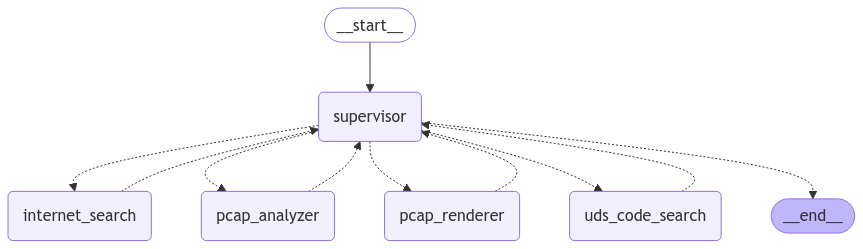
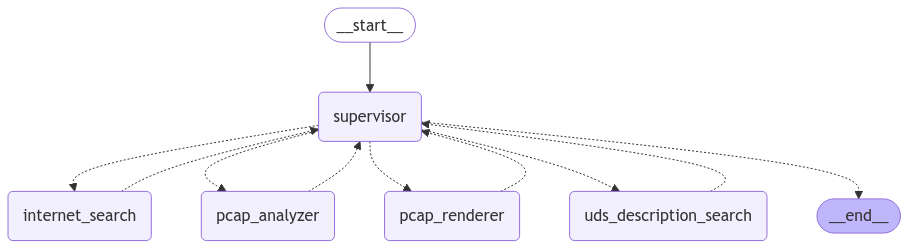
updated functionality with agent that queries UDS codes for long descriptions if user asks

diff --git a/agents/uds_codes.py b/agents/uds_codes.py
@@ -1,0 +1,104 @@
+import pandas as pd
+from typing import Literal
+import sqlite3
+
+from langgraph.types import Command
+from langgraph.prebuilt import create_react_agent
+from langchain_core.tools import tool
+from langchain_core.messages import HumanMessage
+
+from utils import instantiate_llm
+from agents.state import State  # Adjust if needed
+
+
+# Initialize the LLM model
+llm = instantiate_llm()
+
+
+# -------------------
+# SQL Search Tool
+# -------------------
+@tool
+def sql_search(query: str) -> str:
+    """
+    Tool for querying information about specific UDS codes.
+    Given an executable SQL query, this function queries the SQLite database table "descriptions"
+    and returns matching records.
+    
+    Args:
+      query (str): The SQL query to execute.
+    
+    Returns:
+      str: A string representation of the matching records, or an error message if the query fails.
+    """
+    print("Querying database with:", query)
+    try:
+        # Create a new connection for this function call
+        with sqlite3.connect('uds/uds_codes.db') as conn:
+            df = pd.read_sql(query, conn)
+        if df.empty:
+            return "No matching records found."
+        return df.to_string(index=False)
+    except Exception as e:
+        return f"SQL error: {str(e)}"
+
+# -------------------
+# Prompt & React Agent for UDS Codes
+# -------------------
+def prompt() -> str:
+    """
+    Returns the prompt for the UDS Code agent.
+    This prompt instructs the agent to answer user queries about Unified Diagnostic Service (UDS) codes
+    by formulating an executable SQL query against the SQLite database table 'descriptions'.
+    
+    The table schema is as follows:
+      - Code: string, a hexadecimal service or NRC code.
+      - Type: string, contains "SID" for service or "NRC" for negative response code.
+      - Description: string, description about the particular code.
+    
+    Use ONLY the provided `sql_search` tool to retrieve detailed UDS code information.
+    If the executed query returns no results, respond with 
+    'I couldn’t find enough details on this in the database.' Always provide clear, concise answers 
+    based on the retrieved information.
+    """
+    return (
+        "You are an expert on Unified Diagnostic Service (UDS) codes. Your job is to answer user queries "
+        "about UDS codes by formulating an executable SQL query against the SQLite database table 'descriptions'. "
+        "The table 'descriptions' has the following schema: "
+        "Code (string): a hexadecimal service or NRC code; "
+        "Type (string): contains 'SID' for service or 'NRC' for negative response code; "
+        "Description (string): a description of the particular code. "
+        "Use ONLY the provided `sql_search` tool to retrieve detailed UDS code information. "
+        "Always provide clear, concise answers based on the retrieved information."
+    )
+
+
+uds_description_search_agent = create_react_agent(
+    llm,
+    tools=[sql_search],
+    prompt=prompt()
+)
+
+# -------------------
+# UDS Description Search Node
+# -------------------
+def uds_description_search_node(state: State) -> Command[Literal["supervisor"]]:
+    """
+    Processes a query for UDS code information by:
+      1. Delegating the query to the UDS description search agent.
+      2. Retrieving the agent's response.
+      3. Constructing a command to update the supervisor with the result.
+    
+    The `state` parameter contains the user's query and additional context.
+    """
+    result = uds_description_search_agent.invoke(state)
+    answer = result["messages"][-1].content
+
+    return Command(
+        update={
+            "messages": [
+                HumanMessage(content=answer, name="uds_description_search")
+            ]
+        },
+        goto="supervisor",
+    )

diff --git a/app.py b/app.py
@@ -14,7 +14,7 @@ from agents.state import State
 from agents.internet_search import internet_search_node
 from agents.pcap_analyzer import pcap_analyzer_node
 from agents.pcap_renderer import pcap_renderer_node
-from agents.rag import uds_code_search_node  # Import the UDS code search node
+from agents.uds_codes import uds_description_search_node
 
 nest_asyncio.apply()  # Needed for running async functions with Flask
 
@@ -27,7 +27,7 @@ ALLOWED_EXTENSIONS = {"pcap"}
 # Initialize Flask app
 app = Flask(__name__)
 app.config["UPLOAD_FOLDER"] = UPLOAD_FOLDER
-app.secret_key = "some-secure-and-random-secret-key"  # Required for session storage
+app.secret_key = "some-secure-and-random-secret-key"  # TODO
 
 # Ensure the upload folder exists
 os.makedirs(UPLOAD_FOLDER, exist_ok=True)
@@ -55,8 +55,8 @@ WELCOME_MESSAGE = {
 # Initialize the LLM model
 llm = instantiate_llm()  # No streaming for single query functionality
 
-# Update the list of nodes to include the new "uds_code_search" agent.
-nodes = ["internet_search", "pcap_analyzer", "pcap_renderer", "uds_code_search"]
+# List of workers (nodes) available
+nodes = ["internet_search", "pcap_analyzer", "pcap_renderer", "uds_description_search"]
 options = nodes + ["FINISH"]
 
 class Router(TypedDict):
@@ -66,9 +66,7 @@ class Router(TypedDict):
 def supervisor_node(state: MessagesState) -> Command[Literal[*nodes, "__end__"]]:
     system_prompt = (
         "You are a supervisor tasked with managing a conversation between the following workers: "
-        f"{nodes}. The conversation context may include an active PCAP file or a request to view a PCAP file. "
-        "If a user asks about the active PCAP file, respond with its filename as stored in the conversation context. "
-        "If the user's request is ambiguous, ask clarifying questions instead of echoing the query. "
+        f"{nodes}. The conversation context may include an active PCAP file, a UDS code query, or a request to view a PCAP file. If a user asks about the active PCAP file, respond with its filename as stored in the conversation context. If the user's request is ambiguous, ask clarifying questions instead of echoing the query. If the user asks for information about UDS codes, delegate first to the `uds_description_search` worker. If the answer cannot be found in the database, resort to the `internet_search worker`. "
         "Based on the conversation below, determine the next worker to act and respond with that worker's name. "
         "When finished, respond with FINISH."
     )
@@ -89,7 +87,7 @@ builder.add_node("supervisor", supervisor_node)
 builder.add_node("internet_search", internet_search_node)
 builder.add_node("pcap_analyzer", pcap_analyzer_node)
 builder.add_node("pcap_renderer", pcap_renderer_node)
-builder.add_node("uds_code_search", uds_code_search_node)
+builder.add_node("uds_description_search", uds_description_search_node)
 graph = builder.compile(checkpointer=memory, debug=True)
 graph.get_graph().draw_mermaid_png(output_file_path='./graph.png')  # Generates a visual plot of the graph
 
@@ -131,7 +129,7 @@ def chat():
         # Include the full conversation history to provide context.
         conversation = chat_histories[session_id] + [{"role": "user", "content": user_message}]
         inputs = {"messages": conversation}
-        result = graph.invoke(inputs, config={"configurable": {"thread_id": 42}, "recursion_limit": 5})
+        result = graph.invoke(inputs, config={"configurable": {"thread_id": 42}, "recursion_limit": 15})
         assistant_response = result["messages"][-1].content
 
         chat_histories[session_id].append({"role": "user", "content": user_message})
